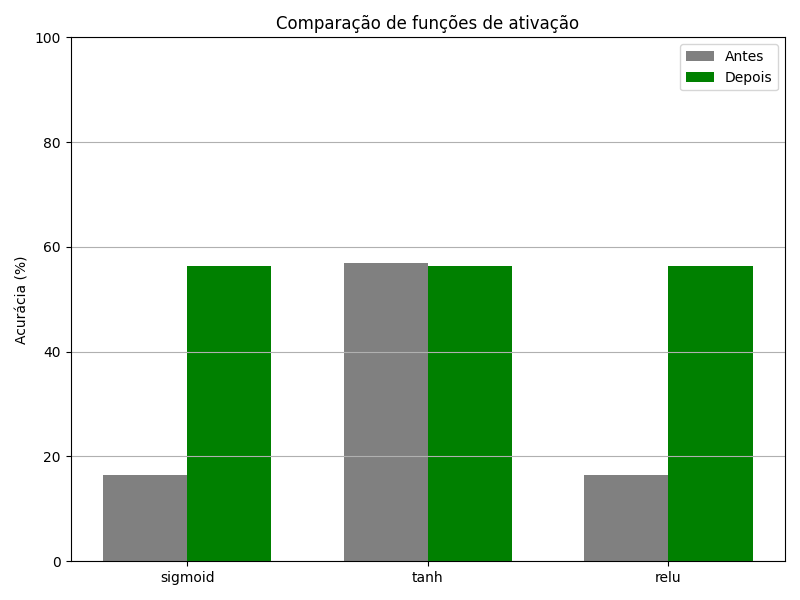
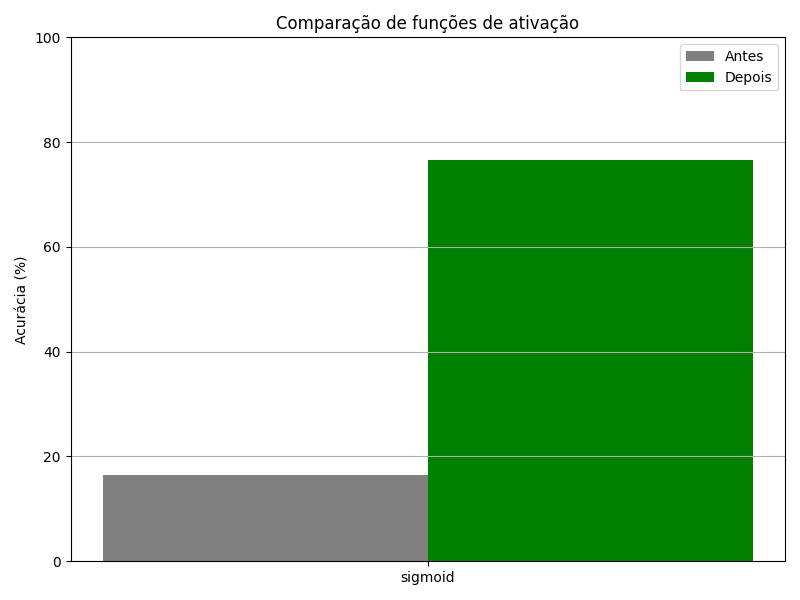
Rede neural funcional

Changed region(s): [[0.1875, 0.24, 0.9688, 0.99], [0.5, 0.96, 0.5625, 0.99]]

diff --git a/t2/neural.py b/t2/neural.py
@@ -4,18 +4,17 @@ import math
 import pandas as pd
 import os
 import matplotlib.pyplot as plt
+from mpl_toolkits.mplot3d import Axes3D # Importação necessária para plots 3D
 from sklearn.preprocessing import OneHotEncoder, StandardScaler
 from sklearn.metrics import accuracy_score
 
-
-
+# Valores de exemplo para gerar um gráfico 3D mais informativo
 LEARNING_RATES = [0.1]
-HIDDEN_LAYERS_SIZES = [5]
-NEURONS_PER_LAYERS = [5]
-TRAINING_PERCENTAGES = [0.3]
-EPOCHS = 300
-METHODS = ['sigmoid', 'tanh', 'relu']
-
+HIDDEN_LAYERS_SIZES = [1, 2, 3]  # Mais de um valor para o eixo Y do gráfico 3D
+NEURONS_PER_LAYERS = [1, 3, 5] # Mais de um valor para o eixo X do gráfico 3D
+TRAINING_PERCENTAGES = [0.5]
+EPOCHS = 100 # Reduzido para fins de demonstração rápida. Pode aumentar conforme necessário.
+METHODS = ['sigmoid']
 
 def testar_neural_network(data_path="dataset/treino_sinais_vitais_com_label.csv"):
     data = pd.read_csv(data_path).values
@@ -24,85 +23,106 @@ def testar_neural_network(data_path="dataset/treino_sinais_vitais_com_label.csv"
     encoder = OneHotEncoder(sparse_output=False)
     encoder.fit(data[:, -1].reshape(-1, 1))
 
-    resultados = []
+    plot_data = []
 
     for perc in TRAINING_PERCENTAGES:
         treino = data[:int(len(data) * perc)]
         teste = data[int(len(data) * perc):]
 
-        X_train, y_train = treino[:, :-1], treino[:, -1].reshape(-1, 1)
-        X_test, y_test = teste[:, :-1], teste[:, -1].reshape(-1, 1)
+        X_train, y_train_labels = treino[:, :-1], treino[:, -1].reshape(-1, 1)
+        X_test, y_test_labels = teste[:, :-1], teste[:, -1].reshape(-1, 1)
 
         scaler = StandardScaler()
         X_train = scaler.fit_transform(X_train)
         X_test = scaler.transform(X_test)
 
-        y_train_encoded = encoder.transform(y_train)
-        y_test_int = y_test.astype(int).flatten()
-
-        # Criar rede base com sigmoid e armazenar pesos/bias iniciais
-        base_nn = NeuralNetwork(
-            inputSize=X_train.shape[1],
-            numClasses=y_train_encoded.shape[1],
-            hiddenLayersSize=HIDDEN_LAYERS_SIZES[0],
-            neuronsPerLayer=NEURONS_PER_LAYERS[0],
-            learningRate=LEARNING_RATES[0],
-            method='sigmoid'
-        )
-        initial_weights = base_nn.getAllWeights()
+        y_train_encoded = encoder.transform(y_train_labels)
+        y_test_int = y_test_labels.astype(float).astype(int).flatten()
 
         for method in METHODS:
-            for hidden_layers in HIDDEN_LAYERS_SIZES:
-                for neurons_per_layer in NEURONS_PER_LAYERS:
+            for hidden_layers_config in HIDDEN_LAYERS_SIZES: # Renomeado para clareza
+                for neurons_per_layer_config in NEURONS_PER_LAYERS: # Renomeado para clareza
                     for learning_rate in LEARNING_RATES:
-                        print(f"\nMétodo: {method} | Treino {int(perc*100)}% | {hidden_layers} camadas, {neurons_per_layer} neurônios, LR={learning_rate}")
+                        print(f"\nMétodo: {method} | Treino {int(perc*100)}% | {hidden_layers_config} camadas, {neurons_per_layer_config} neurônios, LR={learning_rate}")
 
                         nn = NeuralNetwork(
                             inputSize=X_train.shape[1],
                             numClasses=y_train_encoded.shape[1],
-                            hiddenLayersSize=hidden_layers,
-                            neuronsPerLayer=neurons_per_layer,
+                            hiddenLayersSize=hidden_layers_config,
+                            neuronsPerLayer=neurons_per_layer_config,
                             learningRate=learning_rate,
                             method=method
                         )
-                        # Aplicar pesos/bias iniciais para garantir igualdade
-                        nn.setAllWeights(initial_weights)
 
-
-                        y_pred_before = [nn.predictClass(x) for x in X_test]
-                        acc_before = accuracy_score(y_test_int, y_pred_before)
-
-                        for _ in range(EPOCHS):
-                            for x, y in zip(X_train, y_train_encoded):
-                                nn.train(x, y)
+                        for epoch in range(EPOCHS):
+                            for x, y_enc in zip(X_train, y_train_encoded):
+                                nn.train(x, y_enc)
 
                         y_pred_after = [nn.predictClass(x) for x in X_test]
                         acc_after = accuracy_score(y_test_int, y_pred_after)
 
-                        print(f"Acurácia antes: {acc_before*100:.2f}%, depois: {acc_after*100:.2f}%")
+                        print(f"Acurácia após treino: {acc_after*100:.2f}%")
 
-                        resultados.append((method, acc_before*100, acc_after*100))
+                        plot_data.append({
+                            'neurons': neurons_per_layer_config,
+                            'layers': hidden_layers_config,
+                            'accuracy': acc_after * 100,
+                            'method': method,
+                            'lr': learning_rate,
+                            'perc_treino': perc
+                        })
 
-    # Gráfico comparativo
-    labels, accs_before, accs_after = zip(*resultados)
-    x = np.arange(len(labels))
-    width = 0.35
+    df_plot = pd.DataFrame(plot_data)
 
-    plt.figure(figsize=(8, 6))
-    plt.bar(x - width/2, accs_before, width=width, label="Antes", color="gray")
-    plt.bar(x + width/2, accs_after, width=width, label="Depois", color="green")
-    plt.xticks(x, labels)
-    plt.ylabel("Acurácia (%)")
-    plt.title("Comparação de funções de ativação")
-    plt.ylim(0, 100)
-    plt.grid(axis="y")
-    plt.legend()
-    plt.tight_layout()
-    plt.savefig("graficos/neural/comparativo_metodos_ativacao.png")
-    plt.close()
+    # --- Geração dos Gráficos 2D ---
 
+    # Gráfico 1: Acurácia vs. Número de Neurônios (linhas = número de camadas)
+    for method_name in df_plot['method'].unique():
+        method_df = df_plot[df_plot['method'] == method_name]
+        if method_df.empty:
+            continue
 
+        plt.figure(figsize=(10, 6))
+        for num_camadas in sorted(method_df['layers'].unique()):
+            camada_df = method_df[method_df['layers'] == num_camadas].sort_values(by='neurons')
+            if not camada_df.empty:
+                plt.plot(camada_df['neurons'], camada_df['accuracy'], marker='o', linestyle='-', label=f'{num_camadas} Camada(s)')
 
+        plt.xlabel('Número de Neurônios por Camada')
+        plt.ylabel('Acurácia (%)')
+        plt.title(f'Acurácia vs. Neurônios - Método: {method_name}\n(LR={LEARNING_RATES[0]}, Treino={TRAINING_PERCENTAGES[0]*100}%)')
+        plt.legend(title='Nº de Camadas')
+        plt.grid(True, linestyle='--', alpha=0.7)
+        plt.ylim(0, 100) # Garante que o eixo Y da acurácia vá de 0 a 100
+        plt.tight_layout()
+        plt.savefig(f"graficos/neural/2D_AccVsNeurons_Method_{method_name}.png")
+        print(f"Gráfico 'Acurácia vs Neurônios' salvo para {method_name}")
+        plt.close()
+
+    # Gráfico 2: Acurácia vs. Número de Camadas (linhas = número de neurônios)
+    for method_name in df_plot['method'].unique():
+        method_df = df_plot[df_plot['method'] == method_name]
+        if method_df.empty:
+            continue
+
+        plt.figure(figsize=(10, 6))
+        for num_neuronios in sorted(method_df['neurons'].unique()):
+            neuronio_df = method_df[method_df['neurons'] == num_neuronios].sort_values(by='layers')
+            if not neuronio_df.empty:
+                plt.plot(neuronio_df['layers'], neuronio_df['accuracy'], marker='s', linestyle='--', label=f'{num_neuronios} Neurônio(s)')
+
+        plt.xlabel('Número de Camadas Ocultas')
+        plt.ylabel('Acurácia (%)')
+        plt.title(f'Acurácia vs. Camadas - Método: {method_name}\n(LR={LEARNING_RATES[0]}, Treino={TRAINING_PERCENTAGES[0]*100}%)')
+        plt.legend(title='Nº de Neurônios/Camada')
+        plt.grid(True, linestyle='--', alpha=0.7)
+        plt.ylim(0, 100) # Garante que o eixo Y da acurácia vá de 0 a 100
+        # Define os ticks do eixo X para serem apenas os inteiros testados para camadas
+        plt.xticks(sorted(method_df['layers'].unique()))
+        plt.tight_layout()
+        plt.savefig(f"graficos/neural/2D_AccVsLayers_Method_{method_name}.png")
+        print(f"Gráfico 'Acurácia vs Camadas' salvo para {method_name}")
+        plt.close()
 
 class Perceptron:
     def __init__(self, inputSize, learningRate, method='sigmoid'):
@@ -117,10 +137,14 @@ class Perceptron:
     
     def activationFunction(self, x):
         if self.method == 'sigmoid':
+            # Prevenção de overflow
+            x = np.clip(x, -500, 500)
             return 1 / (1 + math.exp(-x))
         elif self.method == 'relu':
             return max(0, x)
         elif self.method == 'tanh':
+            # Prevenção de overflow
+            x = np.clip(x, -500, 500)
             return math.tanh(x)
         else:
             raise ValueError("Método de ativação desconhecido. Use 'sigmoid', 'relu' ou 'tanh'.")
@@ -138,19 +162,22 @@ class Perceptron:
         if self.method == 'sigmoid':
             return self.lastOutput * (1 - self.lastOutput) * error
         elif self.method == 'relu':
+            # A derivada do ReLU é 1 para x > 0, e 0 caso contrário.
+            # (self.lastOutput > 0) resulta em True (1) ou False (0).
+            # .astype(float) converte para 1.0 ou 0.0.
             return (self.lastOutput > 0).astype(float) * error
         elif self.method == 'tanh':
-            return (1 - math.tanh(self.lastOutput)**2) * error
+            # Derivada da tanh(x) é 1 - tanh(x)^2.
+            # self.lastOutput já é tanh(weightedSum).
+            return (1 - self.lastOutput**2) * error
         else:
-            raise ValueError("Método de ativação desconhecido. Use 'sigmoid', 'relu' ou 'tanh'.")
+            raise ValueError("Método de ativação desconhecido para cálculo do delta. Use 'sigmoid', 'relu' ou 'tanh'.")
 
     def updateWeights(self, error):
-        self.delta = self.lastOutput * (1 - self.lastOutput) * error
+        # CORREÇÃO: Usar calculateDelta para obter o delta correto conforme o método de ativação
+        self.delta = self.calculateDelta(error)
         for i in range(self.inputSize):
-            old = self.weights[i]
             self.weights[i] += self.learningRate * self.delta * self.lastInputs[i]
-            # if old != self.weights[i]:
-            #     print(f"Peso {i} alterado: {old:.4f} -> {self.weights[i]:.4f}")
         self.bias += self.learningRate * self.delta
 
 class OutputLayer:
@@ -164,101 +191,123 @@ class OutputLayer:
         self.deltas = []
 
     def predict(self, inputs):
-        if len(inputs) != self.weights.shape[1]:  # <- shape[1] é inputSize
+        if len(inputs) != self.weights.shape[1]:
             raise ValueError("Input size must match weights size.")
     
         self.lastInputs = np.array(inputs)
         self.lastOutputs = []
-        weightedSum = 0
-
+        
         for i in range(len(self.weights)):
             weightedSum = np.dot(self.weights[i], inputs) + self.bias[i]
+            # Prevenção de overflow para a sigmoide da camada de saída
+            weightedSum = np.clip(weightedSum, -500, 500)
             output = 1 / (1 + math.exp(-weightedSum))
             self.lastOutputs.append(output)
-
+        
+        if not self.lastOutputs: # Caso de emergência, se lastOutputs estiver vazio
+             return 1 # ou alguma classe padrão
         return self.lastOutputs.index(max(self.lastOutputs)) + 1
 
     def updateWeights(self, target):
         self.deltas = [self.lastOutputs[i] * (1 - self.lastOutputs[i] ) * (target[i] - self.lastOutputs[i])for i in range(self.numClasses)]
         for i in range(self.numClasses):
             self.weights[i] += self.learningRate * self.deltas[i] * self.lastInputs
+        # Atualização do bias da camada de saída (estava faltando)
+        for i in range(self.numClasses):
+            self.bias[i] += self.learningRate * self.deltas[i]
+
 
 class NeuralNetwork:
     def __init__(self, inputSize, numClasses, hiddenLayersSize=1, neuronsPerLayer=1, learningRate=0.01, method='sigmoid'):
         self.inputSize = inputSize
         self.numClasses = numClasses
         self.learningRate = learningRate
+        # A camada de saída agora recebe 'neuronsPerLayer' como seu inputSize,
+        # que é o número de saídas da última camada oculta.
         self.outputLayer = OutputLayer(neuronsPerLayer, numClasses, self.learningRate)
         self.hiddenLayers = []
         self.method = method
         self.createLayers(hiddenLayersSize, neuronsPerLayer)
     
     def createLayers(self, hiddenLayersSize, neuronsPerLayer):
-        n = self.inputSize
-        for _ in range(hiddenLayersSize):
+        current_input_size = self.inputSize
+        for i in range(hiddenLayersSize):
             layer = []
             for _ in range(neuronsPerLayer):
-                layer.append(Perceptron(n, self.learningRate, self.method))
-            n = neuronsPerLayer
+                layer.append(Perceptron(current_input_size, self.learningRate, self.method))
             self.hiddenLayers.append(layer)
+            current_input_size = neuronsPerLayer # A entrada da próxima camada é a saída da atual
 
     def feedForward(self, inputs):
+        current_inputs = np.array(inputs)
         for layer in self.hiddenLayers:
             outputs = []
             for neuron in layer:
-                outputs.append(neuron.predict(inputs))
-            inputs = outputs
-        return self.outputLayer.predict(inputs)
+                outputs.append(neuron.predict(current_inputs))
+            current_inputs = np.array(outputs) # Saídas desta camada são entradas para a próxima
+        return self.outputLayer.predict(current_inputs)
     
     def backpropagate(self, target):
-        # Update output layer
         self.outputLayer.updateWeights(target)
 
         nextDeltas = self.outputLayer.deltas
+        # nextWeights para a primeira etapa de retropropagação (da saída para a última camada oculta)
+        # são os pesos da camada de saída.
         nextWeights = self.outputLayer.weights
 
-        for layer in reversed(self.hiddenLayers):
+        # Iterar pelas camadas ocultas de trás para frente
+        for i in range(len(self.hiddenLayers) - 1, -1, -1):
+            layer = self.hiddenLayers[i]
             currentDeltas = []
+            errors_for_this_layer = [] # Erros que serão usados para atualizar os pesos desta camada
 
             for j, neuron in enumerate(layer):
-                error = 0
-
-                for k in range(len(nextDeltas)):
-                    error += nextDeltas[k] * nextWeights[k][j]
-
-                neuron.updateWeights(error)
-
-                currentDeltas.append(neuron.delta)
-
+                error_sum = 0
+                # O erro para um neurônio j na camada oculta atual é a soma ponderada dos deltas da PRÓXIMA camada.
+                # nextDeltas são os deltas da camada à frente (mais próxima da saída).
+                # nextWeights[k][j] é o peso que conecta o neurônio j desta camada ao neurônio k da próxima camada.
+                for k in range(len(nextDeltas)): # k itera sobre os neurônios da PRÓXIMA camada
+                    error_sum += nextDeltas[k] * nextWeights[k][j]
+                
+                # O neurônio calcula seu próprio delta e atualiza seus pesos
+                # A função updateWeights do Perceptron já calcula o delta interno usando calculateDelta(error_sum)
+                neuron.updateWeights(error_sum)
+                currentDeltas.append(neuron.delta) # Guarda o delta calculado por este neurônio
+            
+            # Para a próxima iteração (a camada anterior a esta),
+            # os 'nextDeltas' serão os 'currentDeltas' que acabamos de calcular.
             nextDeltas = currentDeltas
-            nextWeights = [neuron.weights for neuron in layer]
+            # E os 'nextWeights' serão os pesos dos neurônios da camada atual.
+            nextWeights = np.array([neuron.weights for neuron in layer])
+
 
     def train(self, inputs, target):
-        inputs = np.array(inputs)
-        target = np.array(target)
-        if len(inputs) != self.inputSize:
+        inputs_array = np.array(inputs)
+        target_array = np.array(target)
+        if len(inputs_array) != self.inputSize:
             raise ValueError("Input size must match the network input size.")
         
-        self.feedForward(inputs)
-        self.backpropagate(target)
+        self.feedForward(inputs_array) # feedForward para popular lastOutputs e lastInputs
+        self.backpropagate(target_array)
 
     def predictClass(self, inputs):
         return self.feedForward(inputs)
-    
-    def getAllWeights(self):
-        weights = {"output": self.outputLayer.weights.tolist()}
-        for i, layer in enumerate(self.hiddenLayers):
-            weights[f"hidden_{i}"] = [neuron.weights.tolist() for neuron in layer]
-        return weights
-    #Para testes
-    def setAllWeights(self, all_weights):
-        # Output layer
-        self.outputLayer.weights = np.array(all_weights["output"])
-        
-        # Hidden layers
-        for i, layer in enumerate(self.hiddenLayers):
-            for j, neuron in enumerate(layer):
-                neuron.weights = np.array(all_weights[f"hidden_{i}"][j])
+
+
+
 
 if __name__ == "__main__":
+    # Certifique-se que o arquivo CSV está no caminho correto ou ajuste o path.
+    # Exemplo: testar_neural_network("dataset/treino_sinais_vitais_com_label.csv")
+    # Se o arquivo não existir, esta chamada irá falhar.
+    # Crie um arquivo dummy CSV se necessário para testar a estrutura do código.
+    # Exemplo de criação de dummy dataset para teste:
+    # if not os.path.exists("dataset/treino_sinais_vitais_com_label.csv"):
+    #     print("Arquivo de dataset não encontrado. Criando um dummy para teste.")
+    #     os.makedirs("dataset", exist_ok=True)
+    #     dummy_data = np.random.rand(100, 5) # 4 features, 1 label
+    #     dummy_data[:, -1] = np.random.randint(1, 5, 100) # Labels 1, 2, 3, 4
+    #     dummy_df = pd.DataFrame(dummy_data, columns=['f1', 'f2', 'f3', 'f4', 'label'])
+    #     dummy_df.to_csv("dataset/treino_sinais_vitais_com_label.csv", index=False)
+        
     testar_neural_network("dataset/treino_sinais_vitais_com_label.csv")
